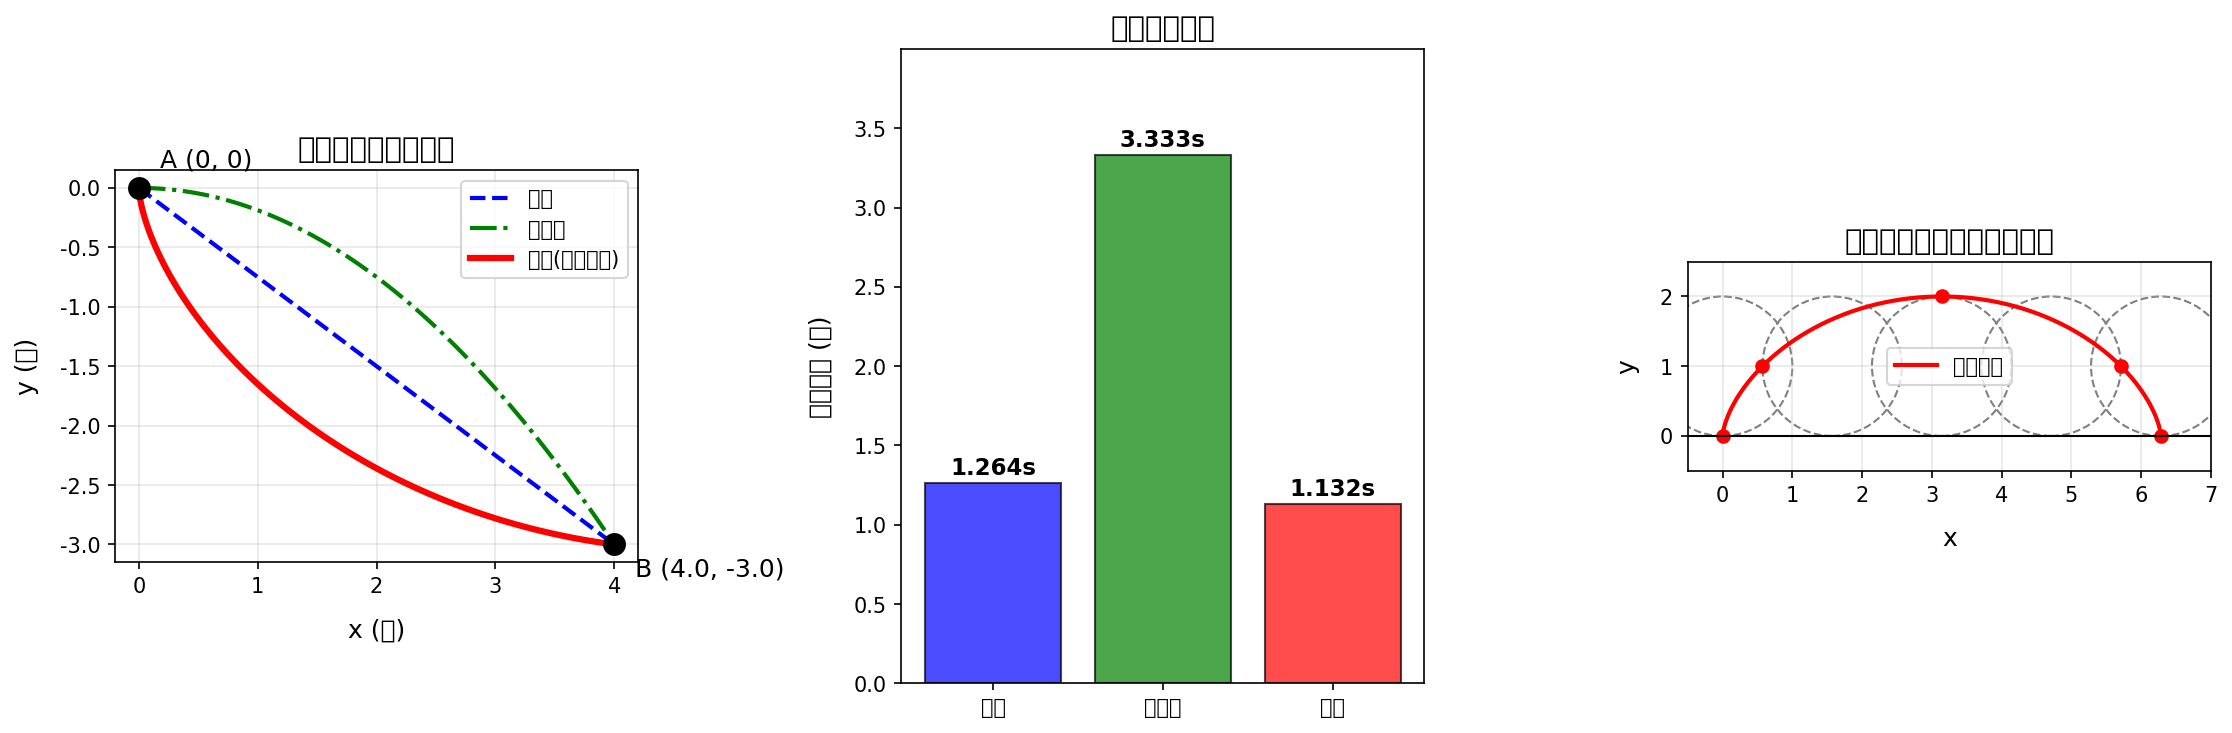
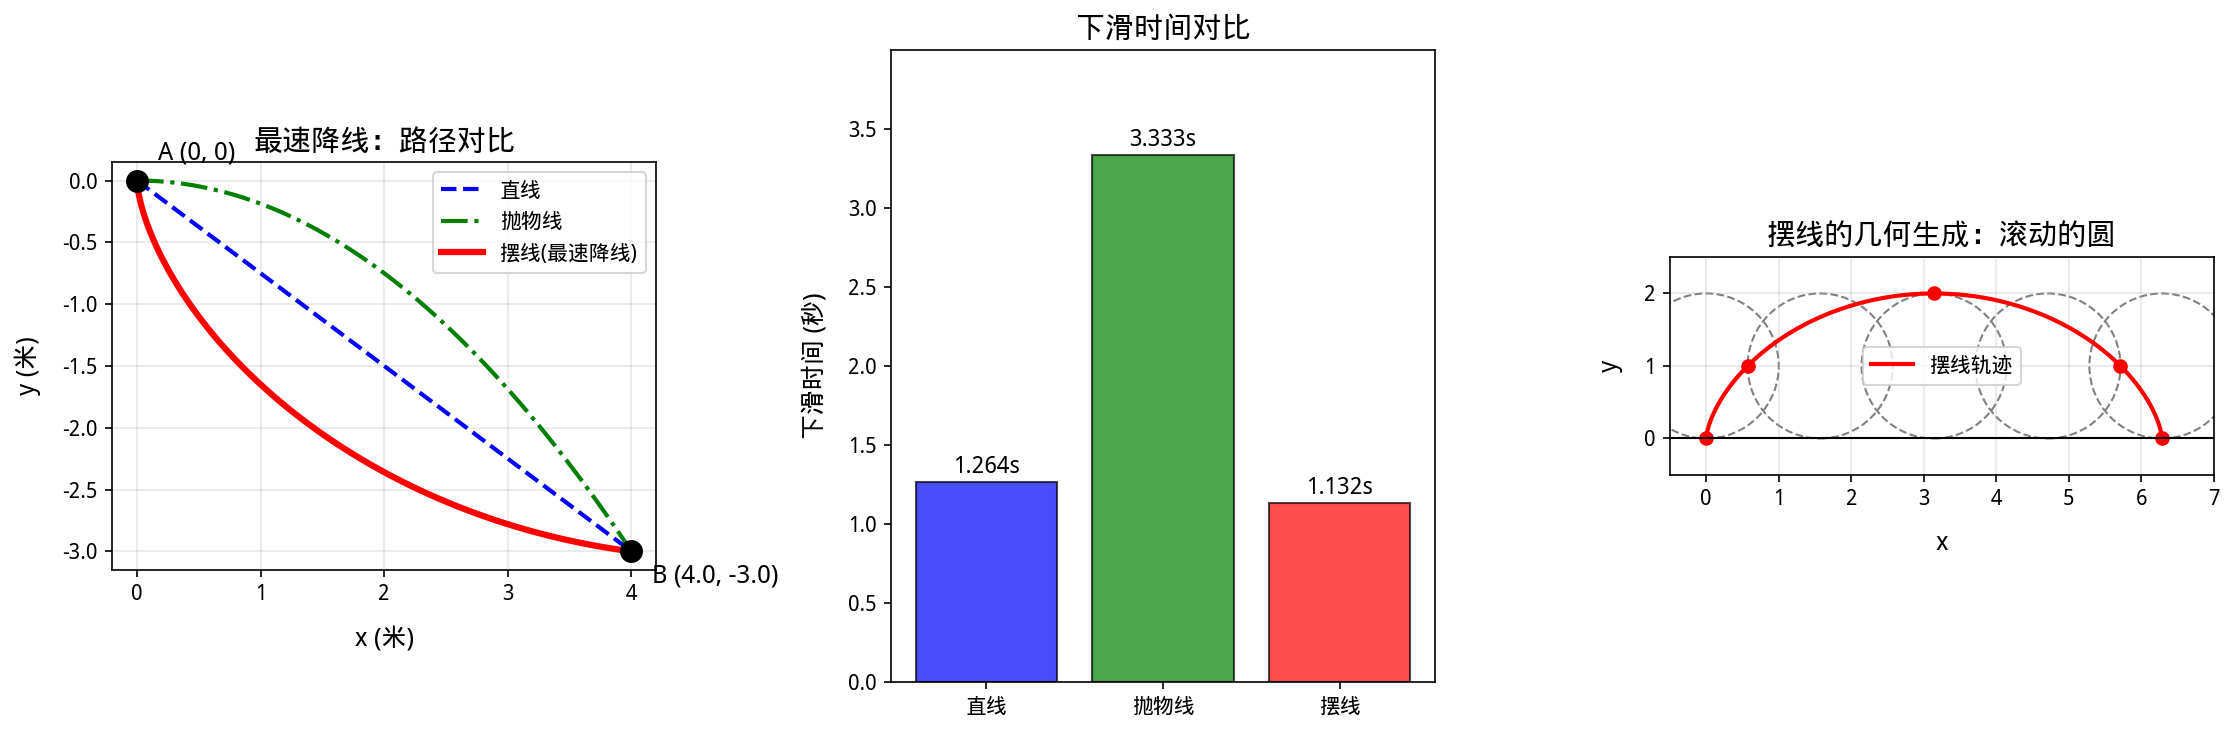
修复matplotlib中文字体配置，使用WenQuanYi Micro Hei
- 更新font.sans-serif配置使用正确的WenQuanYi Micro Hei字体名
- 重新生成带有正确中文标签的图片

diff --git a/code/chap03_variational.py b/code/chap03_variational.py
@@ -14,7 +14,7 @@ from scipy.optimize import brentq, minimize_scalar
 
 # 导入中文字体配置
 import matplotlib
-matplotlib.rcParams['font.sans-serif'] = ['SimHei', 'DejaVu Sans', 'Arial Unicode MS']
+matplotlib.rcParams['font.sans-serif'] = ['WenQuanYi Micro Hei', 'SimHei', 'DejaVu Sans']
 matplotlib.rcParams['axes.unicode_minus'] = False
 
 def create_brachistochrone_figure():
